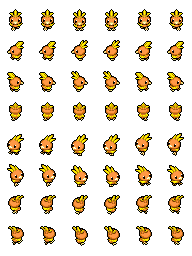
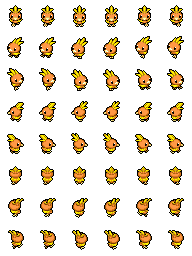
Añadidas todas las animaciones básicas de Torchic (arriba, abajo, izquierda, derecha, arriba izquierda, arriba derecha, abajo izquierda y abajo derecha)

diff --git a/MilaAnacleto/Mila.h b/MilaAnacleto/Mila.h
@@ -15,7 +15,16 @@ private:
 	int altoFrame;
 
 	// Direcciones de la animacion y direccion actual
-	enum Direccion { Abajo = 0, Izquierda = 1, Derecha = 2, Arriba = 3};
+	enum Direccion { 
+		Abajo = 0, 
+		AbajoIzquierda = 1, 
+		AbajoDerecha = 2, 
+		Izquierda = 3,
+		Derecha = 4,
+		Arriba = 5,
+		ArribaIzquierda = 6,
+		ArribaDerecha = 7
+	};
 	Direccion direccionActual;
 
 public:
